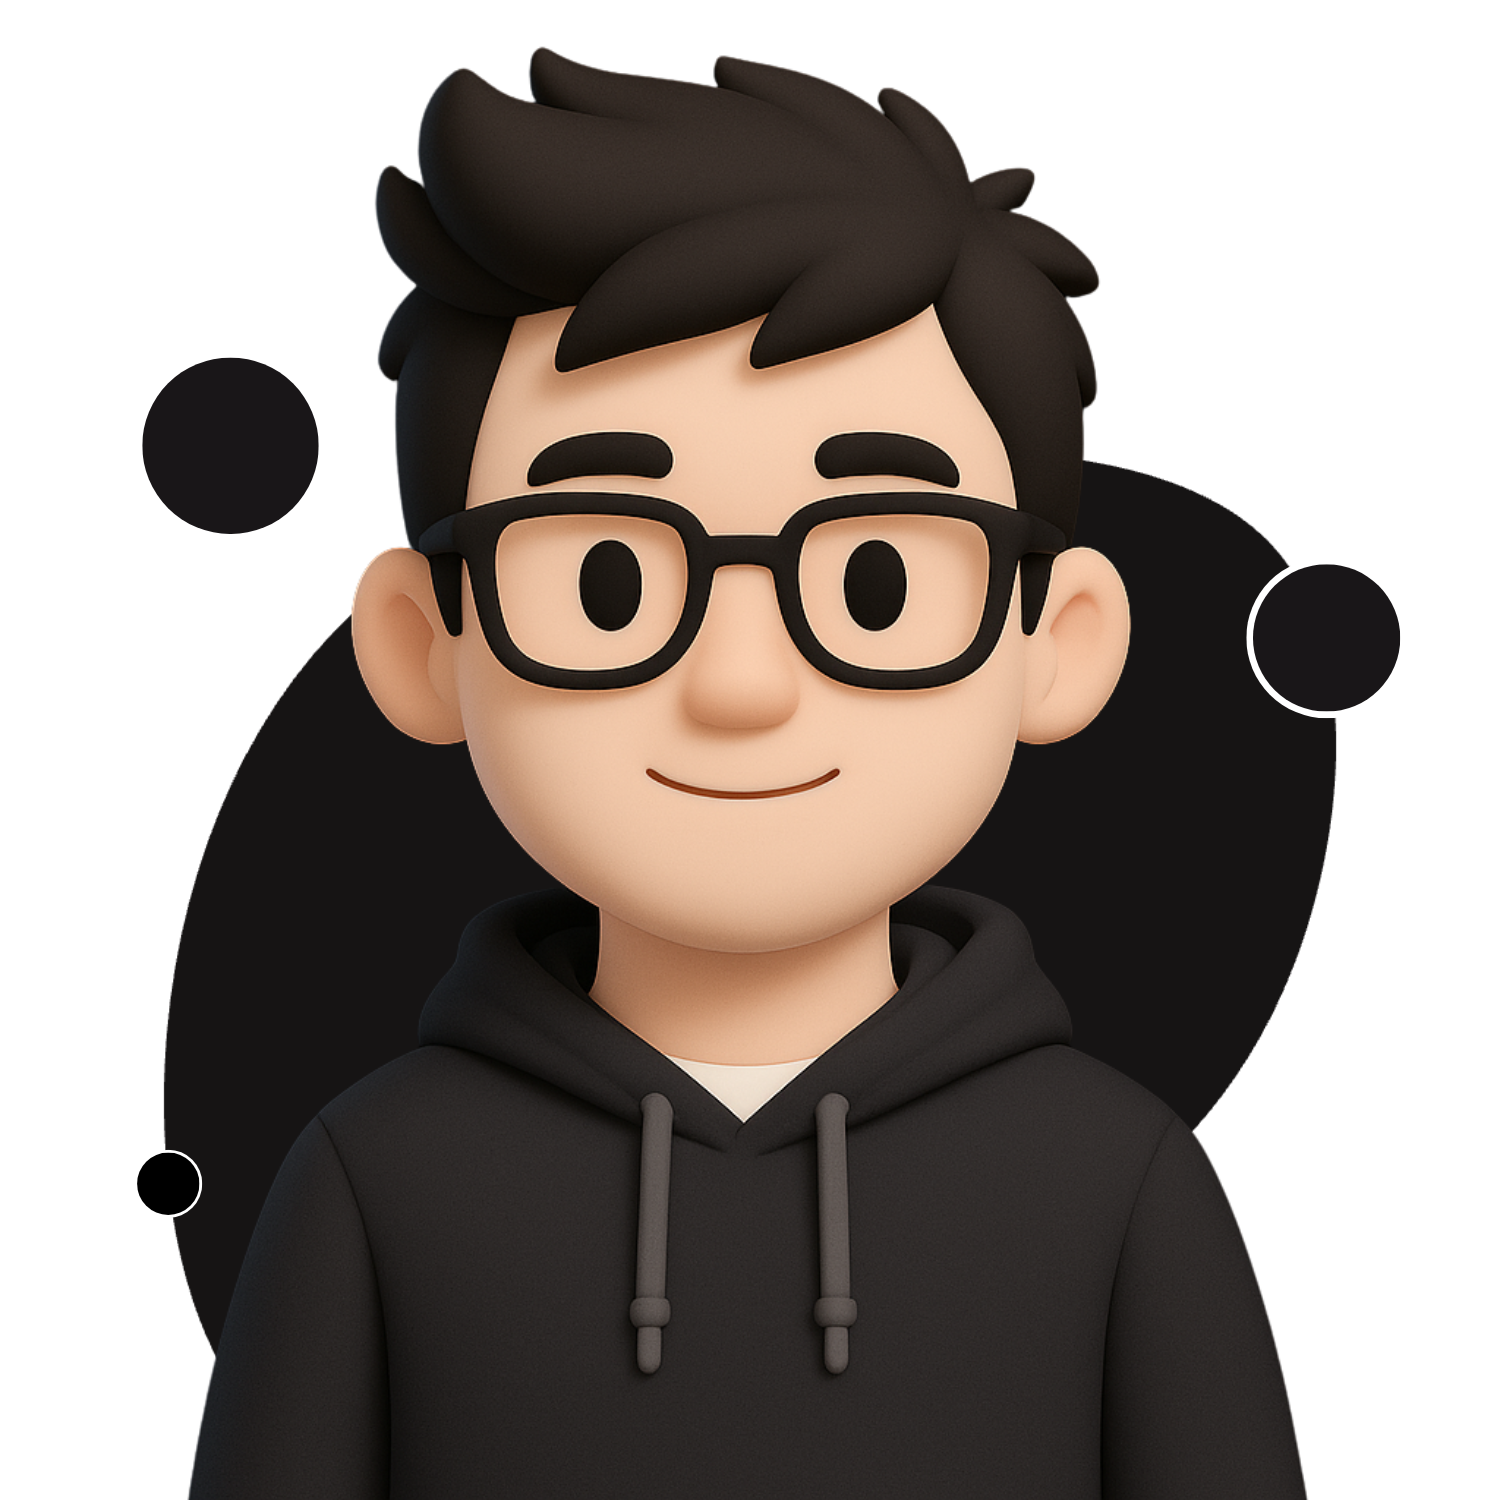
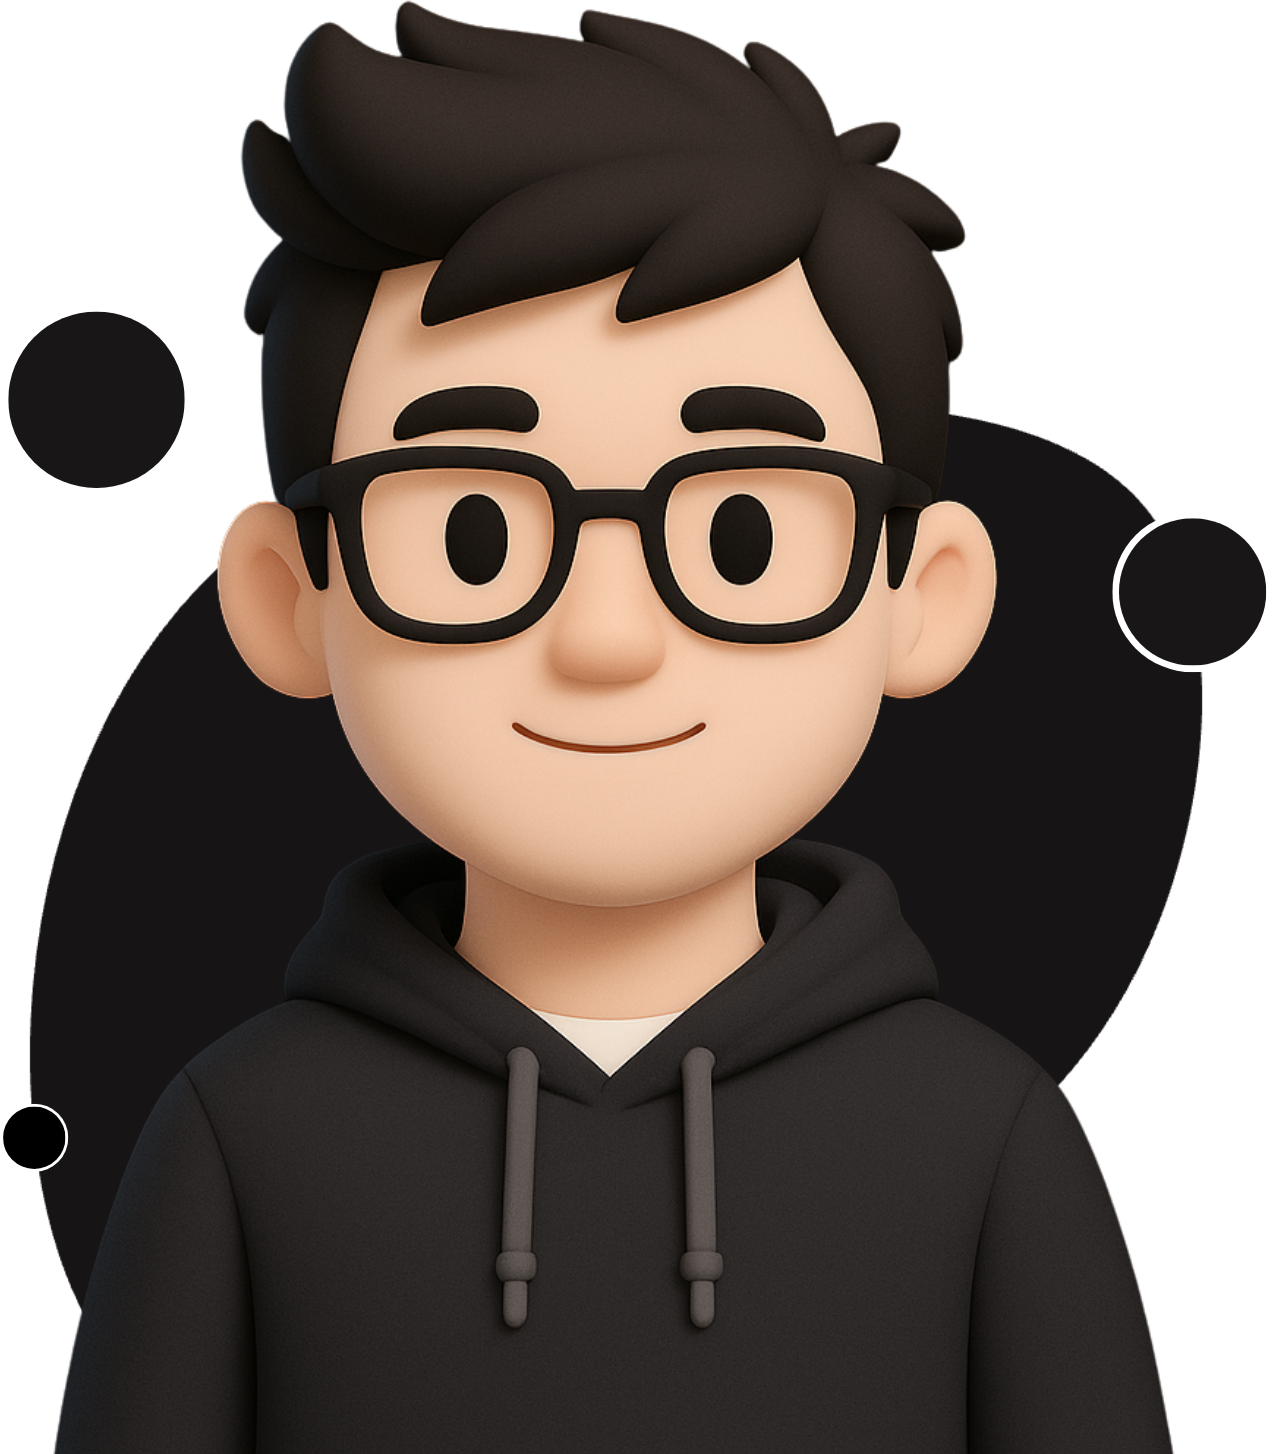
Update about section UI

diff --git a/src/data/icons/headerIcons.tsx b/src/data/icons/headerIcons.tsx
@@ -4,7 +4,7 @@ const GitHubIcon = (
     viewBox="0 0 50 50"
     width="50px"
     height="50px"
-    className="social-media-icon"
+    className="header-icon"
   >
     <path d="M17.791,46.836C18.502,46.53,19,45.823,19,45v-5.4c0-0.197,0.016-0.402,0.041-0.61C19.027,38.994,19.014,38.997,19,39 c0,0-3,0-3.6,0c-1.5,0-2.8-0.6-3.4-1.8c-0.7-1.3-1-3.5-2.8-4.7C8.9,32.3,9.1,32,9.7,32c0.6,0.1,1.9,0.9,2.7,2c0.9,1.1,1.8,2,3.4,2 c2.487,0,3.82-0.125,4.622-0.555C21.356,34.056,22.649,33,24,33v-0.025c-5.668-0.182-9.289-2.066-10.975-4.975 c-3.665,0.042-6.856,0.405-8.677,0.707c-0.058-0.327-0.108-0.656-0.151-0.987c1.797-0.296,4.843-0.647,8.345-0.714 c-0.112-0.276-0.209-0.559-0.291-0.849c-3.511-0.178-6.541-0.039-8.187,0.097c-0.02-0.332-0.047-0.663-0.051-0.999 c1.649-0.135,4.597-0.27,8.018-0.111c-0.079-0.5-0.13-1.011-0.13-1.543c0-1.7,0.6-3.5,1.7-5c-0.5-1.7-1.2-5.3,0.2-6.6 c2.7,0,4.6,1.3,5.5,2.1C21,13.4,22.9,13,25,13s4,0.4,5.6,1.1c0.9-0.8,2.8-2.1,5.5-2.1c1.5,1.4,0.7,5,0.2,6.6c1.1,1.5,1.7,3.2,1.6,5 c0,0.484-0.045,0.951-0.11,1.409c3.499-0.172,6.527-0.034,8.204,0.102c-0.002,0.337-0.033,0.666-0.051,0.999 c-1.671-0.138-4.775-0.28-8.359-0.089c-0.089,0.336-0.197,0.663-0.325,0.98c3.546,0.046,6.665,0.389,8.548,0.689 c-0.043,0.332-0.093,0.661-0.151,0.987c-1.912-0.306-5.171-0.664-8.879-0.682C35.112,30.873,31.557,32.75,26,32.969V33 c2.6,0,5,3.9,5,6.6V45c0,0.823,0.498,1.53,1.209,1.836C41.37,43.804,48,35.164,48,25C48,12.318,37.683,2,25,2S2,12.318,2,25 C2,35.164,8.63,43.804,17.791,46.836z" />
   </svg>
@@ -16,7 +16,7 @@ const LinkedInIcon = (
     viewBox="0 0 50 50"
     width="50px"
     height="50px"
-    className="social-media-icon"
+    className="header-icon "
   >
     <path d="M41,4H9C6.24,4,4,6.24,4,9v32c0,2.76,2.24,5,5,5h32c2.76,0,5-2.24,5-5V9C46,6.24,43.76,4,41,4z M17,20v19h-6V20H17z M11,14.47c0-1.4,1.2-2.47,3-2.47s2.93,1.07,3,2.47c0,1.4-1.12,2.53-3,2.53C12.2,17,11,15.87,11,14.47z M39,39h-6c0,0,0-9.26,0-10 c0-2-1-4-3.5-4.04h-0.08C27,24.96,26,27.02,26,29c0,0.91,0,10,0,10h-6V20h6v2.56c0,0,1.93-2.56,5.81-2.56 c3.97,0,7.19,2.73,7.19,8.26V39z" />
   </svg>
@@ -28,7 +28,7 @@ const TwitterIcon = (
     viewBox="0 0 50 50"
     width="50px"
     height="50px"
-    className="social-media-icon"
+    className="header-icon"
   >
     <path d="M 50.0625 10.4375 C 48.214844 11.257813 46.234375 11.808594 44.152344 12.058594 C 46.277344 10.785156 47.910156 8.769531 48.675781 6.371094 C 46.691406 7.546875 44.484375 8.402344 42.144531 8.863281 C 40.269531 6.863281 37.597656 5.617188 34.640625 5.617188 C 28.960938 5.617188 24.355469 10.21875 24.355469 15.898438 C 24.355469 16.703125 24.449219 17.488281 24.625 18.242188 C 16.078125 17.8125 8.503906 13.71875 3.429688 7.496094 C 2.542969 9.019531 2.039063 10.785156 2.039063 12.667969 C 2.039063 16.234375 3.851563 19.382813 6.613281 21.230469 C 4.925781 21.175781 3.339844 20.710938 1.953125 19.941406 C 1.953125 19.984375 1.953125 20.027344 1.953125 20.070313 C 1.953125 25.054688 5.5 29.207031 10.199219 30.15625 C 9.339844 30.390625 8.429688 30.515625 7.492188 30.515625 C 6.828125 30.515625 6.183594 30.453125 5.554688 30.328125 C 6.867188 34.410156 10.664063 37.390625 15.160156 37.472656 C 11.644531 40.230469 7.210938 41.871094 2.390625 41.871094 C 1.558594 41.871094 0.742188 41.824219 -0.0585938 41.726563 C 4.488281 44.648438 9.894531 46.347656 15.703125 46.347656 C 34.617188 46.347656 44.960938 30.679688 44.960938 17.09375 C 44.960938 16.648438 44.949219 16.199219 44.933594 15.761719 C 46.941406 14.3125 48.683594 12.5 50.0625 10.4375 Z" />
   </svg>
@@ -40,7 +40,7 @@ const PinterestIcon = (
     viewBox="0 0 50 50"
     width="50px"
     height="50px"
-    className="social-media-icon"
+    className="header-icon"
   >
     <path d="M25,2C12.3178711,2,2,12.3178711,2,25c0,9.8841553,6.2675781,18.3302612,15.036377,21.5769653	c-0.2525635-2.2515869-0.2129517-5.9390259,0.2037964-7.7243652c0.3902588-1.677002,2.5212402-10.6871338,2.5212402-10.6871338	s-0.6433105-1.2883301-0.6433105-3.1911011c0-2.9901733,1.7324219-5.2211914,3.8898315-5.2211914	c1.8349609,0,2.7197876,1.3776245,2.7197876,3.0281982c0,1.8457031-1.1734619,4.6026611-1.78125,7.1578369	c-0.506897,2.1409302,1.0733643,3.8865356,3.1836548,3.8865356c3.821228,0,6.7584839-4.0296021,6.7584839-9.8453369	c0-5.147583-3.697998-8.7471924-8.9795532-8.7471924c-6.1167603,0-9.7072754,4.588562-9.7072754,9.3309937	c0,1.8473511,0.7111816,3.8286743,1.6000977,4.9069824c0.175293,0.2133179,0.2009277,0.3994141,0.1488647,0.6160278	c-0.1629028,0.678894-0.5250854,2.1392822-0.5970459,2.4385986c-0.0934448,0.3944702-0.3117676,0.4763184-0.7186279,0.2869263	c-2.685791-1.2503052-4.364502-5.1756592-4.364502-8.3295898c0-6.7815552,4.9268188-13.0108032,14.206543-13.0108032	c7.4588623,0,13.2547607,5.3138428,13.2547607,12.4179077c0,7.4100342-4.6729126,13.3729858-11.1568604,13.3729858	c-2.178894,0-4.2263794-1.132019-4.9267578-2.4691772c0,0-1.0783081,4.1048584-1.3404541,5.1112061	c-0.4524536,1.7404175-2.3892822,5.3460083-3.3615723,6.9837036C20.1704712,47.6074829,22.5397949,48,25,48	c12.6826172,0,23-10.3173828,23-23C48,12.3178711,37.6826172,2,25,2z" />
   </svg>

diff --git a/src/sections/Home.tsx b/src/sections/Home.tsx
@@ -3,27 +3,30 @@ import Navbutton from "@/components/ui/Navbutton";
 
 export default function Home() {
   return (
-    <section id="home" className="relative size-full">
-      <div className="size-full z-20 absolute grid grid-cols-2 gap-[47rem] 2xl:py-40">
-        <h1 className="self-end 2xl:text-5xl 2xl:leading-15 font-medium">
-          I Build What You Imagine &mdash; Right in the Browser.
-        </h1>
-        <div className="flex flex-col 2xl:gap-8">
-          <p className="text-pretty text-md">{data.heroHeadline}</p>
-          <Navbutton link="/contact" cssClass="2xl:px-6 2xl:py-2.5">
-            Get in Touch
-          </Navbutton>
+    <section id="home" className="relative size-fit">
+      <div className="size-full grid grid-cols-2 2xl:gap-20">
+        <div className="flex flex-col gap-20 2xl:p-10">
+          <h1 className="2xl:text-7xl 2xl:leading-22 font-medium">
+            I Build What You Imagine &mdash; Right in the Browser.
+          </h1>
+          <div className="flex flex-col gap-10 2xl:pr-30">
+            <p className="text-pretty text-lg text-zinc-500">
+              {data.heroHeadline}
+            </p>
+            <Navbutton link="/contact" cssClass="2xl:px-7 2xl:py-3">
+              Get in Touch
+            </Navbutton>
+          </div>
         </div>
-      </div>
-      <div className="h-full">
-        <img
-          src={data.profileImage.image}
-          alt={data.profileImage.alt}
-          draggable={false}
-          loading="lazy"
-          className="block pointer-none select-none size-[52rem] absolute bottom-0 inset-x-0 mx-auto"
-        />
-        <div className="fixed bottom-0 inset-x-0 bg-white/30 backdrop-blur-md mask-t-from-10% h-1/6"></div>
+        <div className="self-center size-[43rem]">
+          <img
+            src={data.dioramaImage.image}
+            alt={data.dioramaImage.alt}
+            draggable={false}
+            loading="lazy"
+            className="animate-float size-full"
+          />
+        </div>
       </div>
     </section>
   );

diff --git a/src/components/Header.tsx b/src/components/Header.tsx
@@ -10,12 +10,9 @@ const menuItems = ["Home", "About", "Projects", "Contact"];
 
 export default function Navbar() {
   return (
-
-    <header className={"absolute inset-x-0  top-0 2xl:py-5 2xl:px-10 z-100"}>
+    <header className={"absolute inset-x-0 top-0 2xl:py-5 2xl:px-10 z-100"}>
       <nav className="flex justify-between items-center">
-        <p className={"font-medium text-black/90 text-xl 2xl:pl-3.5"}>
-          Quan Tran
-        </p>
+        <p className={"font-medium text-black text-xl 2xl:pl-3.5"}>Quan Tran</p>
 
         {/* Navigation internal */}
         <ul className="flex items-center group">
@@ -24,8 +21,9 @@ export default function Navbar() {
               <NavLink
                 to={`/${item === "Home" ? "" : item.toLowerCase()}`}
                 className={({ isActive }) => `
-                inline-block h-fit w-full transition-opacity duration-300 group-hover:opacity-50 hover:opacity-100 2xl:px-3.5 ${isActive ? "opacity-100" : "opacity-50"
-                  }`}
+                inline-block h-fit w-full duration-300 group-hover:text-zinc-500 hover:text-black 2xl:px-3.5 ${
+                  isActive ? "text-black" : "text-zinc-500"
+                }`}
                 draggable={false}
                 end
               >
@@ -44,7 +42,7 @@ export default function Navbar() {
                 target="_blank"
                 rel="noopener noreferrer"
                 draggable={false}
-                className="block transition-opacity duration-300 group-hover:opacity-50 hover:opacity-100 2xl:px-3.5"
+                className="block duration-300 group-hover:text-zinc-500 hover:text-black 2xl:px-3.5"
               >
                 {media.icon}
               </a>

diff --git a/src/data/dataConstants.ts b/src/data/dataConstants.ts
@@ -8,11 +8,11 @@ const data = {
   heroHeadline:
     "Hey there — welcome to my portfolio! I'm a software developer who builds simple, accessible, and user-centered digital experiences. Have a project in mind or just feel like chatting? Let’s connect!",
   aboutP1:
-    "Hey! My name is Quan, and I'm a Computer Science graduate from Georgia State University. As an aspiring Full-Stack Developer, I'm driven by the challenge of building scalable, impactful applications that solve real-world problems. I enjoy continuously learning new technologies, and striving to write clean, efficient code.",
+    "I create full-stack applications that are fast, functional, and visually refined.",
   aboutP2:
-    "Beyond the screen, I dedicate time to weightlifting in the gym, which keeps me focused, energized, and mentally sharp. Photography is another creative outlet for me—I enjoy capturing scenic landscapes that inspire reflection and appreciation for the world around me.",
+    "As an aspiring Full-Stack Developer, I'm driven by the challenge of building scalable, impactful applications that solve real-world problems. I enjoy continuously learning new technologies and strive to write clean, efficient code. Whether working independently or collaborating in a team, I take pride in writing maintainable code and shipping features that matter.",
   aboutP3:
-    "I'm seeking opportunities to grow as a developer and help build meaningful products.",
+    "Beyond the screen, I pursue weightlifting to stay focused and sharp, and photography to slow down and capture moments that remind me why I build.",
 
   socialMedia: [
     {

diff --git a/src/sections/About.tsx b/src/sections/About.tsx
@@ -51,11 +51,31 @@ import ParagraphText from "@/components/ui/ParagraphText.tsx";
 
 export default function About() {
   return (
-    <section
-      id="about"
-      className="relative size-full border-1 border-amber-600"
-    >
-      <img />
+    <section id="about" className="relative size-fit">
+      <div className="relative size-fit grid grid-cols-2">
+        <h1 className="absolute uppercase tracking-wide font-medium 2xl:text-9xl 2xl:right-70 2xl:top-5">
+          About Me
+        </h1>
+        <div className="pointer-none select-none absolute bottom-0 right-0 bg-black h-3 w-30"></div>
+
+        <figure className=" bg-silver w-fit 2xl:h-[45rem] 2xl:pt-30 2xl:px-15">
+          <img
+            src={data.profileImage.image}
+            alt={data.profileImage.alt}
+            draggable="false"
+            className="block pointer-none select-none h-full"
+          />
+        </figure>
+        <div className="self-center">
+          <div className="2xl:pt-25 2xl:pl-40 text-lg text-zinc-500">
+            <p className="about-paragraph text-2xl text-black font-medium">
+              {data.aboutP1}
+            </p>
+            <p className="about-paragraph">{data.aboutP2}</p>
+            <p className="about-paragraph">{data.aboutP3}</p>
+          </div>
+        </div>
+      </div>
     </section>
   );
 }

diff --git a/src/global.css b/src/global.css
@@ -4,7 +4,7 @@
 @theme {
   --font-instrument: "Instrument Sans", "sans-serif";
   --color-beige: #efd6af;
-  --color-silver: #eeeeee;
+  --color-silver: #f5f5f7;
   --color-navy-blue: #0a294c;
   --color-navy-dark-blue: #0e0e55;
   --color-sky-glow: #7baeec;
@@ -18,6 +18,22 @@
   --animate-marquee-right-scroll: horizontal-scroll-right var(--marquee-speed)
     linear infinite;
   --animate-banner: banner-tilt 3s ease-in-out infinite;
+  --animate-float: float 3s ease-in-out infinite;
+
+  @keyframes float {
+    0% {
+      transform: translateY(0);
+      filter: drop-shadow(var(--drop-shadow-xl));
+    }
+    50% {
+      transform: translateY(-10px);
+      filter: drop-shadow(var(--drop-shadow-sm));
+    }
+    100% {
+      transform: translateY(0);
+      filter: drop-shadow(var(--drop-shadow-xl));
+    }
+  }
 
   @keyframes slide-in {
     0% {
@@ -83,7 +99,7 @@
   }
 
   section {
-    @apply border-1 border-black;
+    /* @apply border-1 border-black; */
   }
 
   input,
@@ -97,8 +113,11 @@
 }
 
 @layer components {
-  .social-media-icon {
-    @apply 2xl:size-6;
+  .about-paragraph {
+    @apply 2xl:my-5;
+  }
+  .header-icon {
+    @apply 2xl:size-6 fill-current;
   }
 
   .hamburger-line {

diff --git a/src/components/ui/Navbutton.tsx b/src/components/ui/Navbutton.tsx
@@ -18,7 +18,7 @@ export default function Navbutton({
       draggable={false}
       end
       className={({}) =>
-        `block w-fit bg-black text-white text-md border-2 border-black rounded-lg transition-all duration-200 hover:-translate-1 hover:bg-white hover:text-black ${cssClass}`
+        `block w-fit bg-black text-white text-md rounded-lg border-2 border-black transition-all duration-200 hover:-translate-1 hover:bg-white hover:text-black ${cssClass}  `
       }
     >
       {children}

diff --git a/src/layouts/RootLayout.tsx b/src/layouts/RootLayout.tsx
@@ -15,7 +15,7 @@ export default function RootLayout() {
   return (
     <>
       <Navbar />
-      <main className="h-svh 2xl:px-40">
+      <main className="h-svh 2xl:px-60 2xl:pt-40">
         <Outlet />
       </main>
     </>
